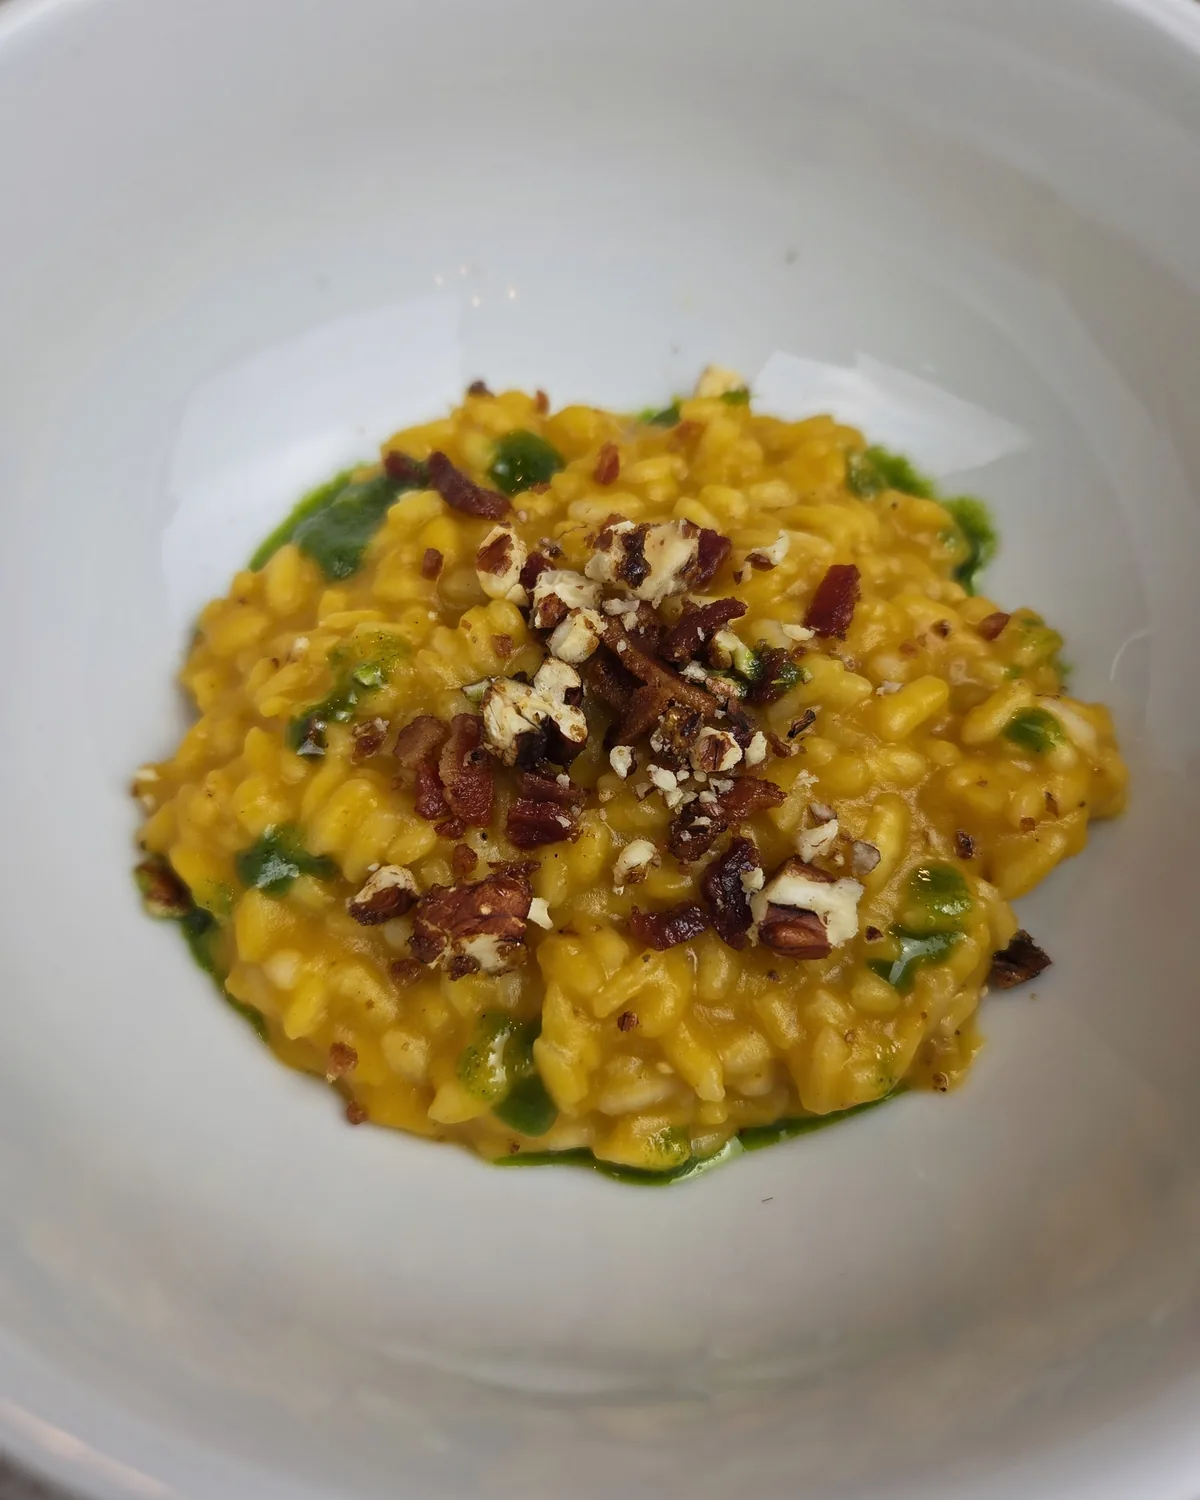
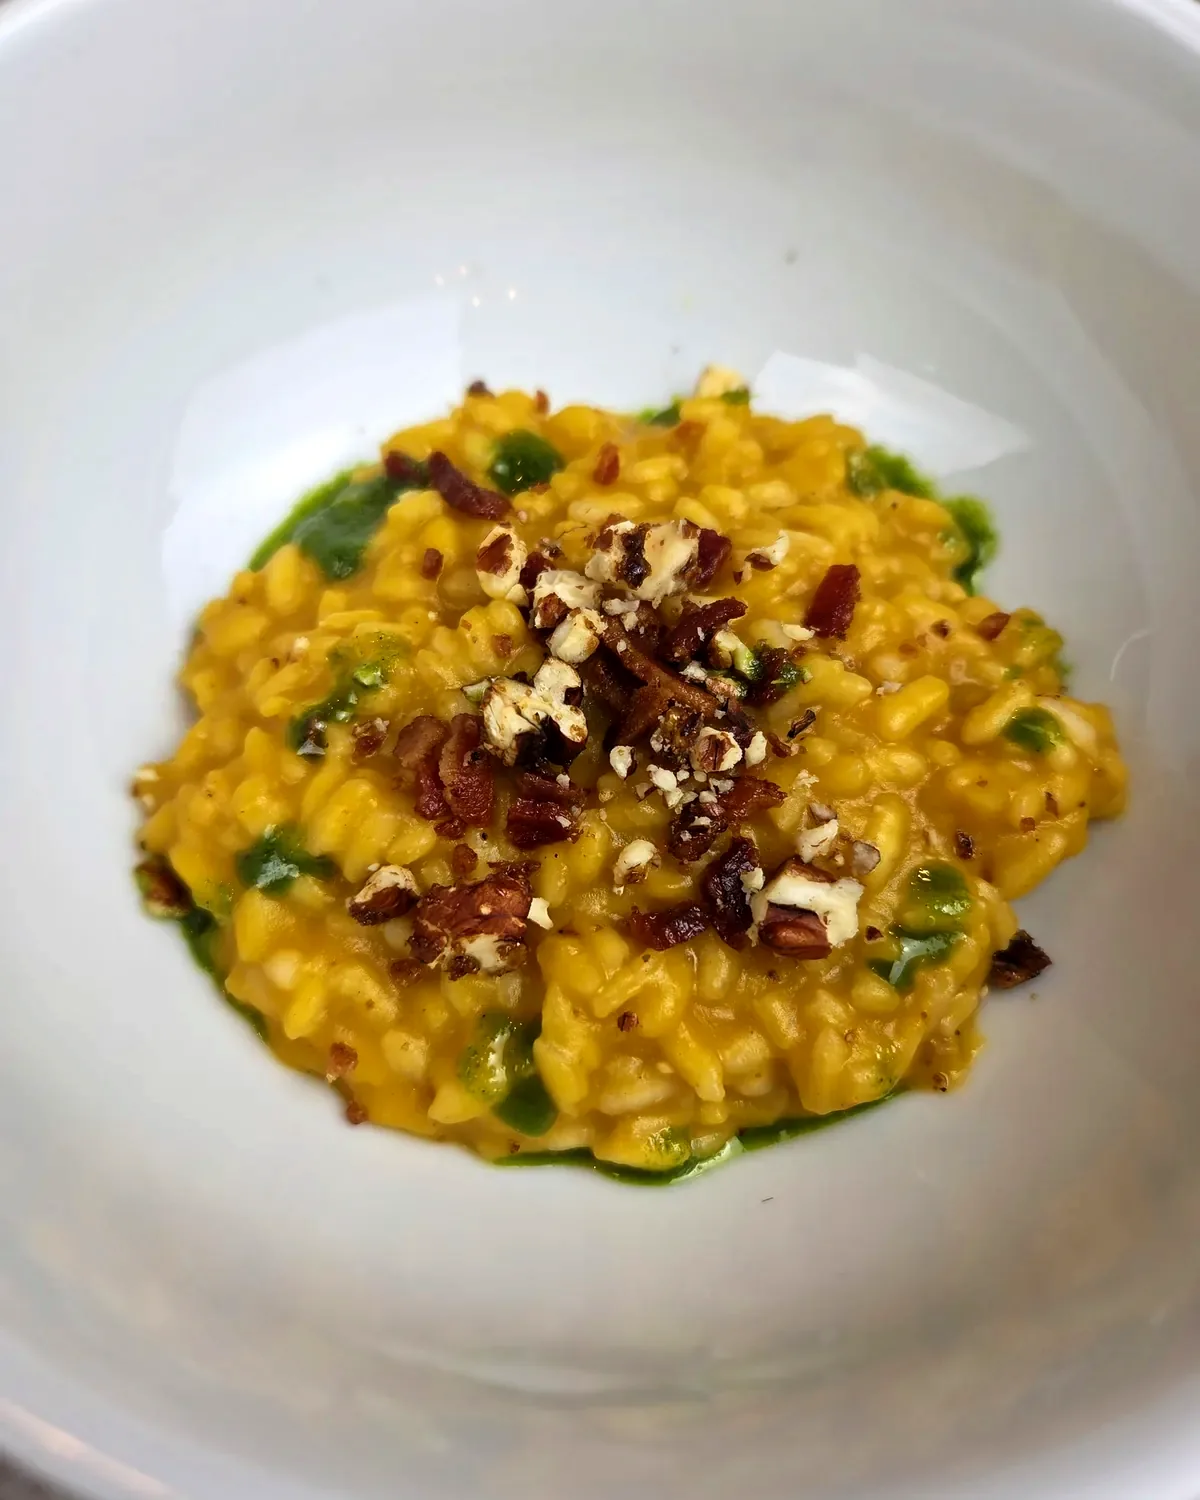
Brighter Harvest plate photos; update risotto and steak menu lines
Plates: levels corrected so the white dishware reads white, plus a gentle
vibrance boost. Menus: risotto now bacon crisps, crispy sage and pecans
(scallop dropped); steak now over parsnip purée with seared and
quick-pickled shaved Brussels sprouts.

Claude-Session: https://claude.ai/code/session_01DqN4Vtt8x72joDauc8g4vq

diff --git a/site/plates/index.html b/site/plates/index.html
@@ -48,15 +48,15 @@ body.lb-lock{overflow:hidden}
       </div>
       <div class="gallery">
           <figure class="plate">
-            <div class="plate-frame"><img src="/plates/img/harvest-salad.webp" alt="Harvest microgreen salad with apple batons and pine nuts in a ring of carrot purée, in a white bowl" width="1200" height="1500" loading="lazy" decoding="async"></div>
+            <div class="plate-frame"><img src="/plates/img/harvest-salad.webp?v=2" alt="Harvest microgreen salad with apple batons and pine nuts in a ring of carrot purée, in a white bowl" width="1200" height="1500" loading="lazy" decoding="async"></div>
             <figcaption>The Harvest Table · Microgreen salad</figcaption>
           </figure>
           <figure class="plate">
-            <div class="plate-frame"><img src="/plates/img/harvest-risotto.webp" alt="Butternut squash risotto topped with bacon and pecans, with a ring of sage oil, in a white bowl" width="1200" height="1500" loading="lazy" decoding="async"></div>
+            <div class="plate-frame"><img src="/plates/img/harvest-risotto.webp?v=2" alt="Butternut squash risotto topped with bacon and pecans, with a ring of sage oil, in a white bowl" width="1200" height="1500" loading="lazy" decoding="async"></div>
             <figcaption>The Harvest Table · Butternut squash risotto</figcaption>
           </figure>
           <figure class="plate">
-            <div class="plate-frame"><img src="/plates/img/harvest-steak.webp" alt="Sliced medium-rare sous vide steak with purée, sage oil, a Malbec drag and roasted Brussels sprouts on a white plate" width="1200" height="1500" loading="lazy" decoding="async"></div>
+            <div class="plate-frame"><img src="/plates/img/harvest-steak.webp?v=2" alt="Sliced medium-rare sous vide steak with purée, sage oil, a Malbec drag and roasted Brussels sprouts on a white plate" width="1200" height="1500" loading="lazy" decoding="async"></div>
             <figcaption>The Harvest Table · Sous vide steak</figcaption>
           </figure>
       </div>

diff --git a/site/menus/index.html b/site/menus/index.html
@@ -88,8 +88,8 @@
           <h3>The Harvest Table</h3>
           <ol class="courses">
             <li><span><b>Harvest microgreen salad</b> with apple, pine nuts and carrot-ginger cider vinaigrette</span></li>
-            <li><span><b>Butternut squash risotto</b> with a hard-seared scallop and bacon chips</span></li>
-            <li><span><b>Sous vide steak</b> over pumpkin purée with Malbec reduction and sage-oil Brussels sprouts</span></li>
+            <li><span><b>Butternut squash risotto</b> with bacon crisps, crispy sage and toasted pecans</span></li>
+            <li><span><b>Sous vide steak</b> over parsnip purée with Malbec reduction, seared sage-oil Brussels sprouts and quick-pickled shaved sprouts</span></li>
             <li><span><b>Caramelized white miso gelato</b> with candied ginger, walnuts and whisky caramel</span></li>
           </ol>
         </article>
